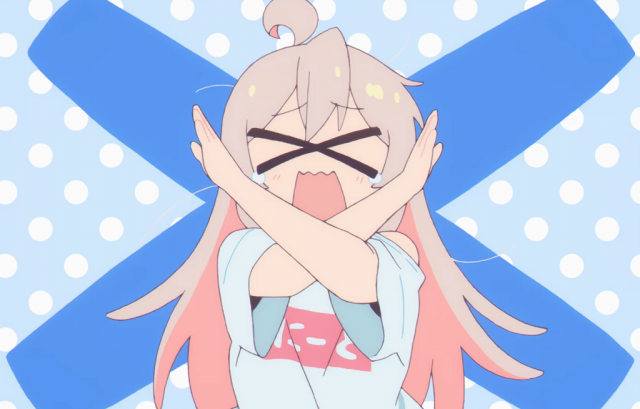
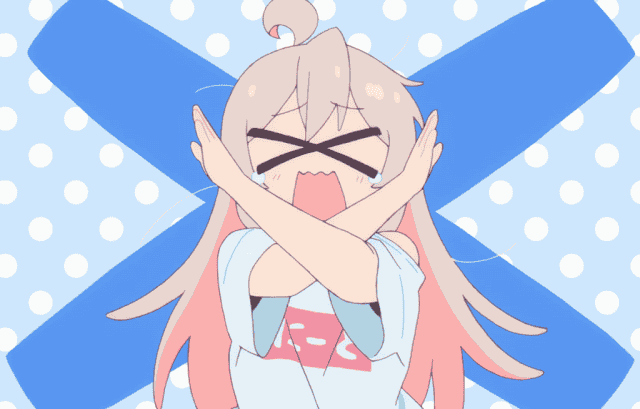
更换网页背景图、新增首页动态栏图片懒加载、细节优化、更新动态

Changed region(s): [[0.5625, 0.7335, 0.5938, 0.7628]]

diff --git a/index.html b/index.html
@@ -51,31 +51,30 @@
 						<div class="anc">
 
 							<div class="anc-box">
-								<h3>ヾ(^▽^*)))</h3>
+								<h3>还是日落ヾ(^▽^*)))</h3>
 								<span class="date">2025-07-23</span>
-								<p><img src="images/photos/20250723/1.webp" /></p>
+								<p><img src="images/photos/20250723/1.webp" loading="lazy" /></p>
 								<p>📷 OnePlus 13T<br>🌏 南通</p>
-
 							</div>
 
 							<div class="anc-box">
-								<h3>~\(≧▽≦)/~</h3>
+								<h3>日落~\(≧▽≦)/~</h3>
 								<span class="date">2025-07-20</span>
-								<p><img src="images/photos/20250720/1.webp" /></p>
+								<p><img src="images/photos/20250720/1.webp" loading="lazy" /></p>
 								<p>📷 OnePlus 13T<br>🌏 南通</p>
 							</div>
 
 							<div class="anc-box">
-								<h3>\(￣︶￣*\))</h3>
+								<h3>蓝调时刻！</h3>
 								<span class="date">2025-07-08</span>
-								<p><img src="images/photos/20250708/1.webp" /></p>
+								<p><img src="images/photos/20250708/1.webp" loading="lazy" /></p>
 								<p>📷 OnePlus 13T<br>🌏 南通</p>
 							</div>
 
 							<div class="anc-box">
-								<h3>(≧∀≦)ゞ</h3>
+								<h3>拍出来远没有肉眼看上去那么震撼...</h3>
 								<span class="date">2025-06-13</span>
-								<p><img src="images/photos/20250613/1.webp" /></p>
+								<p><img src="images/photos/20250613/1.webp" loading="lazy" /></p>
 								<p>可恶啊！中间拍进去半辆车！(っ °Д °;)っ</p>
 								<p>📷 OnePlus 13T<br>🌏 南通</p>
 							</div>
@@ -84,10 +83,18 @@
 								<h3> 上 海 ！！！</h3>
 								<span class="date">2025-05-11</span>
 								<p>主线任务😁</p>
-								<p><img src="images/photos/20250511/1.webp" /></p>
+								<p><img src="images/photos/20250511/1.webp" loading="lazy" /></p>
 								<p>支线任务🤣</p>
-								<p><img src="images/photos/20250511/2.webp" /></p>
-								<p>📷 Redmi K60<br>🌏 上海</p>
+								<p><img src="images/photos/20250511/2.webp" loading="lazy" /></p>
+								<p>📷 Redmi K60<br>🌏 上海•静安大悦城/百联ZX创趣场/外滩</p>
+							</div>
+
+							<div class="anc-box">
+								<h3>长江 (￣▽￣)</h3>
+								<span class="date">2025-05-02</span>
+								<p><img src="images/photos/20250502/1.webp" loading="lazy" /></p>
+								<p>「万里长江第一灯塔」<br><img src="images/photos/20250502/2.webp" loading="lazy" /></p>
+								<p>📷 Redmi K60<br>🌏 南通•滨江公园</p>
 							</div>
 
 							<div class="anc-box">
@@ -104,8 +111,17 @@
 							</div>
 
 							<div class="anc-box">
+								<h3>周末愉快！ (σ≧▽≦)σ。</h3>
+								<span class="date">2024-11-02</span>
+								<p><img src="images/photos/20241102/1.webp" loading="lazy" /></p><p><img src="images/photos/20241102/2.webp" loading="lazy" /></p>
+								<p>来到了五洲湖！ ♪(^∇^*)<br>【第一张由结束乐队Wewill专辑封面抠图合成】</p>
+								<p>📷 Redmi K50<br>🌏 临沂•五洲湖</p>
+							</div>
+
+							<div class="anc-box">
 								<h3>整活小网页-有礼貌的仁菜</h3>
 								<span class="date">2024-08-29</span>
+								<p>凸^-^凸</p>
 								<p><a href="https://www.bestwutong.top/Nina/" target="_blank">>>点击前往</a></p>
 							</div>
 							
@@ -137,7 +153,7 @@
 				<div class="blur">
 					<div class="part02">
 						<h3 class="p1">無同的小屋</h3>
-						<p class="p2">本站采用原生HTML开发，未使用任何框架。</p>
+						<p class="p2">本站采用原生HTML手搓，未使用任何建站框架。</p>
 						<p class="p2">才疏学浅，拙作见谅。</p>
 						<p class="p3">———— 2023-9-30 無同</p>
 						<p class="p4"><img class="gif" src="images/gif02.gif" alt="GIF" /></p>

diff --git a/css/main.css b/css/main.css
@@ -4,7 +4,7 @@
 /*==== 背景 ====*/
 body {
 	background-color: antiquewhite;
-	background-image: url("../images/bg01.png");
+	background-image: url("../images/bg.webp");
 	background-repeat: no-repeat;
 	background-position: center center;
 	background-size: cover;
@@ -14,8 +14,7 @@ body {
 /*==== 框架 ====*/
 body {
 	min-height: 90vh;
-	width: 80%;
-	margin: 0 auto;
+	margin: 0 10%;
 	padding: 0;
 }
 
@@ -94,7 +93,7 @@ button {
 	box-shadow: 0 5px 15px rgba(20, 20, 20, 0.8);
 	border-radius: 32px;
 	align-items: center;
-	backdrop-filter: blur(7px);
+	backdrop-filter: blur(12px);
 	padding: 38px 28px;
 	margin-bottom: 30px;
 	transition: all 0.3s;
@@ -172,8 +171,8 @@ button {
 	text-align: center;
 }
 .header01 .logo {
-	margin-top: 30%;
-	margin-bottom: 3%;
+	margin-top: 5%;
+	margin-bottom: 20%;
 	width: 45%;
 }
 
@@ -181,8 +180,8 @@ button {
 	text-align: center;
 }
 .header02 .logo {
-	margin-top: 30%;
-	margin-bottom: 3%;
+	margin-top: 5%;
+	margin-bottom: 1%;
 	width: 45%;
 }
 .header02 .p1 {
@@ -272,13 +271,15 @@ html {
 /*==== 响应式布局 ====*/
 @media screen and (max-width: 1080px) {
 	body {
-		background-image: url("../images/bg01.png");
-		width: 100%;
+		margin: 0;
 	}
 	.blur {
 		backdrop-filter: none;
-		background-color: rgba(255, 255, 255, 0.6);
+		background-color: rgba(255, 244, 244, 0.7);
 		box-shadow: none;
+	}
+	.blur:hover {
+	background-color: rgba(255, 255, 255, 0.8);
 	}
 	/*==== 顶部导航 ====*/
 	.topnav {
